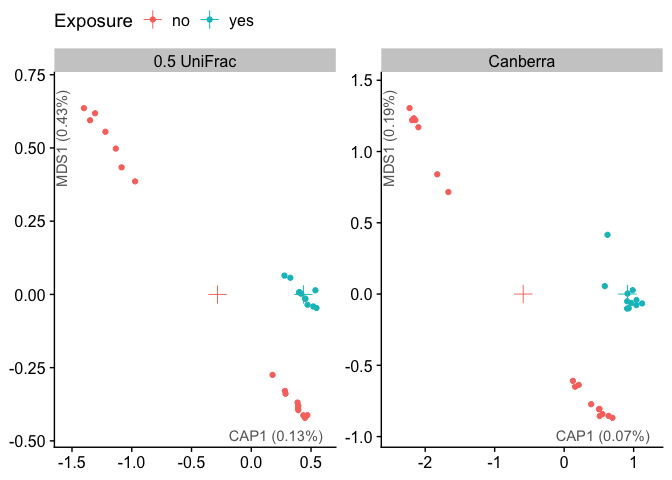
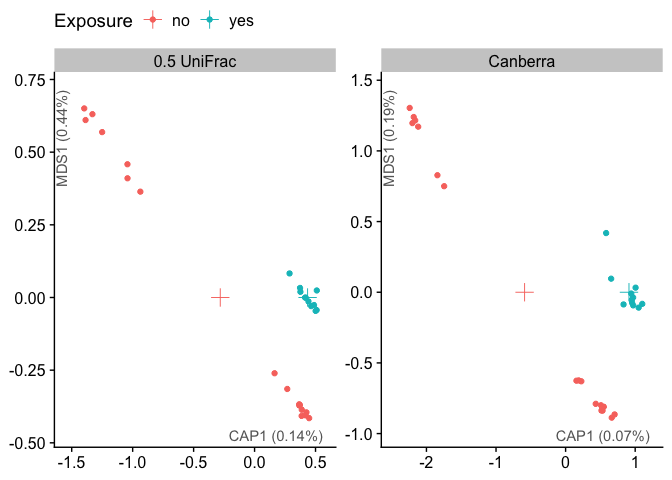
changed the Features slot name to Assignments to make it more obvious that it is not similar to the Abundances table. This way Features refers to the names of the features in the data set just a Samples refers to the names of the samples, and these things can be across different tables, like Metadat

diff --git a/README.md b/README.md
@@ -58,7 +58,7 @@ data("phylogeny")    # loads example phylogeny
 mD1 <- microbData(
   metadata = metadata.dt,
   abundances = asv.mat,
-  features = taxonomy.dt, 
+  assignments = taxonomy.dt, 
   phylogeny = phylogeny
 )
 print(mD1)
@@ -123,20 +123,20 @@ print(mD1)
 ## View individual tables
 # View(get.metadata(mD1))
 # View(get.abundances(mD1))
-# View(get.features(mD1))
+# View(get.assignments(mD1))
 # View(get.phylogeny(mD1))
 ```
 
 We have a lot of ASVs assigned to Eukarya, so let’s get rid of those
 first. Also notice that our ASV IDs are sequences, which can be unwieldy
 to deal with, and can cause issues with memory usage for really large
-data sets. Finally, there are NA assignments in the Features table. So
-we’re going to run a couple steps to clean things up.
+data sets. Finally, there are NA assignments in the Assignments table.
+So we’re going to run a couple steps to clean things up.
 
 ``` r
 mD2 <- remove.eukarya(mD = mD1) %>% 
   numbered.features(prefix = "ASV") %>% 
-  rename.NA.features()
+  rename.NA.assignments()
 print(mD2)
 ```
 
@@ -172,6 +172,10 @@ print(mD2)
     ## Sample Names: A01, A02, A03,..., H12
     ## 
     ## Feature Names: ASV0001, ASV0002, ASV0003,..., ASV1462
+    ## 
+    ## Other Data:
+    ##   Dropped.features: TACGAAGGGTGCAAGCGTTAATCGGAATTACTGGGCGTAAAGCGCGCGTAGGTGGTTTTGTAAGTTGGAGGTGAAATCCCCGGGCTCAACCTGGGAACTG, TACGGGGGGGGCAGGCGTTATTCAGTATAACTAGGCGTAAAGTGTTCGTAGGCGGCAAGATCAGTTGTTAGGTAAAGATTAGAGCTCAACTCTAAAAAAC, TACGGGGGGGGCAGGCGTTATTCAGTATAACTAGGCGTAAAGTGTTCGTAGGCGGCAAGATCAGTTGTTAGGTAAAGGTTAGAGCTTAACTCTAAAAAAC,..., TACGAGAGGCCCTAGTTGATAACTACCGGCGCAAAGAGTGGTTATGGAAAAATATTTAATAAAGCCGAACACCCCCTCAGCCGTCATACGCACCTGGGAG
+    ##   Feature.filter: removed Eukarya
 
 ### Deal with uneven sampling
 
@@ -193,7 +197,7 @@ mD3 <- rarefy(mD2)
     ## Rarefying to: 13000
     ## Random seed: 10403
     ## Number of samples dropped: 18
-    ## Number of features dropped: 684
+    ## Number of features dropped: 687
 
 ``` r
 print(mD3)
@@ -212,10 +216,10 @@ print(mD3)
     ## Feature Abundances: 1462 features
     ## Preview:
     ##     ASV0001 ASV0002 ASV0003 ASV0004
-    ## A01    3981    3241    1139     977
-    ## A02   11139     557     153     130
-    ## A03    4309    2924    1082     819
-    ## A05    1420       0       0       0
+    ## A01    3968    3116    1197     962
+    ## A02   11039     560     159     148
+    ## A03    4333    2887    1116     810
+    ## A05    1427       0       0       0
     ## 
     ## Feature Assignments: 6 levels assigned
     ## Preview:
@@ -233,6 +237,9 @@ print(mD3)
     ## Feature Names: ASV0001, ASV0002, ASV0003,..., ASV1462
     ## 
     ## Other Data:
+    ##   Dropped.features: TACGAAGGGTGCAAGCGTTAATCGGAATTACTGGGCGTAAAGCGCGCGTAGGTGGTTTTGTAAGTTGGAGGTGAAATCCCCGGGCTCAACCTGGGAACTG, TACGGGGGGGGCAGGCGTTATTCAGTATAACTAGGCGTAAAGTGTTCGTAGGCGGCAAGATCAGTTGTTAGGTAAAGATTAGAGCTCAACTCTAAAAAAC, TACGGGGGGGGCAGGCGTTATTCAGTATAACTAGGCGTAAAGTGTTCGTAGGCGGCAAGATCAGTTGTTAGGTAAAGGTTAGAGCTTAACTCTAAAAAAC,..., TACGAGAGGCCCTAGTTGATAACTACCGGCGCAAAGAGTGGTTATGGAAAAATATTTAATAAAGCCGAACACCCCCTCAGCCGTCATACGCACCTGGGAG
+    ##   Feature.filter: removed Eukarya
+    ##   Dropped.samples: A04, A09, B02,..., H11
     ##   Abundances rarefied: 13000
 
 Notice, also, the default behavior is to add a note to the Other Data
@@ -258,20 +265,20 @@ print(mD4)
     ## Sample Metadata: 28 samples with 5 covariates
     ## Preview:
     ## Key: <Sample>
-    ##    Sample Exposure  Shannon   Simpson
-    ##    <char>   <fctr>    <num>     <num>
-    ## 1:    A01       no 2.735710 0.8286525
-    ## 2:    A02       no 0.862923 0.2635847
-    ## 3:    A03       no 2.823123 0.8263305
-    ## 4:    A05       no 2.124319 0.7633306
+    ##    Sample Exposure   Shannon   Simpson
+    ##    <char>   <fctr>     <num>     <num>
+    ## 1:    A01       no 2.7789868 0.8333341
+    ## 2:    A02       no 0.9049006 0.2766212
+    ## 3:    A03       no 2.8318956 0.8261487
+    ## 4:    A05       no 2.1329583 0.7647840
     ## 
     ## Feature Abundances: 1462 features
     ## Preview:
     ##     ASV0001 ASV0002 ASV0003 ASV0004
-    ## A01    3981    3241    1139     977
-    ## A02   11139     557     153     130
-    ## A03    4309    2924    1082     819
-    ## A05    1420       0       0       0
+    ## A01    3968    3116    1197     962
+    ## A02   11039     560     159     148
+    ## A03    4333    2887    1116     810
+    ## A05    1427       0       0       0
     ## 
     ## Feature Assignments: 6 levels assigned
     ## Preview:
@@ -292,6 +299,9 @@ print(mD4)
     ## Feature Names: ASV0001, ASV0002, ASV0003,..., ASV1462
     ## 
     ## Other Data:
+    ##   Dropped.features: TACGAAGGGTGCAAGCGTTAATCGGAATTACTGGGCGTAAAGCGCGCGTAGGTGGTTTTGTAAGTTGGAGGTGAAATCCCCGGGCTCAACCTGGGAACTG, TACGGGGGGGGCAGGCGTTATTCAGTATAACTAGGCGTAAAGTGTTCGTAGGCGGCAAGATCAGTTGTTAGGTAAAGATTAGAGCTCAACTCTAAAAAAC, TACGGGGGGGGCAGGCGTTATTCAGTATAACTAGGCGTAAAGTGTTCGTAGGCGGCAAGATCAGTTGTTAGGTAAAGGTTAGAGCTTAACTCTAAAAAAC,..., TACGAGAGGCCCTAGTTGATAACTACCGGCGCAAAGAGTGGTTATGGAAAAATATTTAATAAAGCCGAACACCCCCTCAGCCGTCATACGCACCTGGGAG
+    ##   Feature.filter: removed Eukarya
+    ##   Dropped.samples: A04, A09, B02,..., H11
     ##   Abundances rarefied: 13000
     ##   Alpha.metrics: Chao1, Shannon, Simpson, Phylogenetic
     ##   Beta.metrics: Canberra, 0.5 UniFrac
@@ -339,20 +349,20 @@ print(mD5)
     ## Sample Metadata: 28 samples with 5 covariates
     ## Preview:
     ## Key: <Sample>
-    ##    Sample Exposure  Shannon   Simpson
-    ##    <char>   <fctr>    <num>     <num>
-    ## 1:    A01       no 2.735710 0.8286525
-    ## 2:    A02       no 0.862923 0.2635847
-    ## 3:    A03       no 2.823123 0.8263305
-    ## 4:    A05       no 2.124319 0.7633306
+    ##    Sample Exposure   Shannon   Simpson
+    ##    <char>   <fctr>     <num>     <num>
+    ## 1:    A01       no 2.7789868 0.8333341
+    ## 2:    A02       no 0.9049006 0.2766212
+    ## 3:    A03       no 2.8318956 0.8261487
+    ## 4:    A05       no 2.1329583 0.7647840
     ## 
     ## Feature Abundances: 1462 features
     ## Preview:
     ##     ASV0001 ASV0002 ASV0003 ASV0004
-    ## A01    3981    3241    1139     977
-    ## A02   11139     557     153     130
-    ## A03    4309    2924    1082     819
-    ## A05    1420       0       0       0
+    ## A01    3968    3116    1197     962
+    ## A02   11039     560     159     148
+    ## A03    4333    2887    1116     810
+    ## A05    1427       0       0       0
     ## 
     ## Feature Assignments: 6 levels assigned
     ## Preview:
@@ -373,6 +383,9 @@ print(mD5)
     ## Feature Names: ASV0001, ASV0002, ASV0003,..., ASV1462
     ## 
     ## Other Data:
+    ##   Dropped.features: TACGAAGGGTGCAAGCGTTAATCGGAATTACTGGGCGTAAAGCGCGCGTAGGTGGTTTTGTAAGTTGGAGGTGAAATCCCCGGGCTCAACCTGGGAACTG, TACGGGGGGGGCAGGCGTTATTCAGTATAACTAGGCGTAAAGTGTTCGTAGGCGGCAAGATCAGTTGTTAGGTAAAGATTAGAGCTCAACTCTAAAAAAC, TACGGGGGGGGCAGGCGTTATTCAGTATAACTAGGCGTAAAGTGTTCGTAGGCGGCAAGATCAGTTGTTAGGTAAAGGTTAGAGCTTAACTCTAAAAAAC,..., TACGAGAGGCCCTAGTTGATAACTACCGGCGCAAAGAGTGGTTATGGAAAAATATTTAATAAAGCCGAACACCCCCTCAGCCGTCATACGCACCTGGGAG
+    ##   Feature.filter: removed Eukarya
+    ##   Dropped.samples: A04, A09, B02,..., H11
     ##   Abundances rarefied: 13000
     ##   Alpha.metrics: Chao1, Shannon, Simpson, Phylogenetic
     ##   Beta.metrics: Canberra, 0.5 UniFrac
